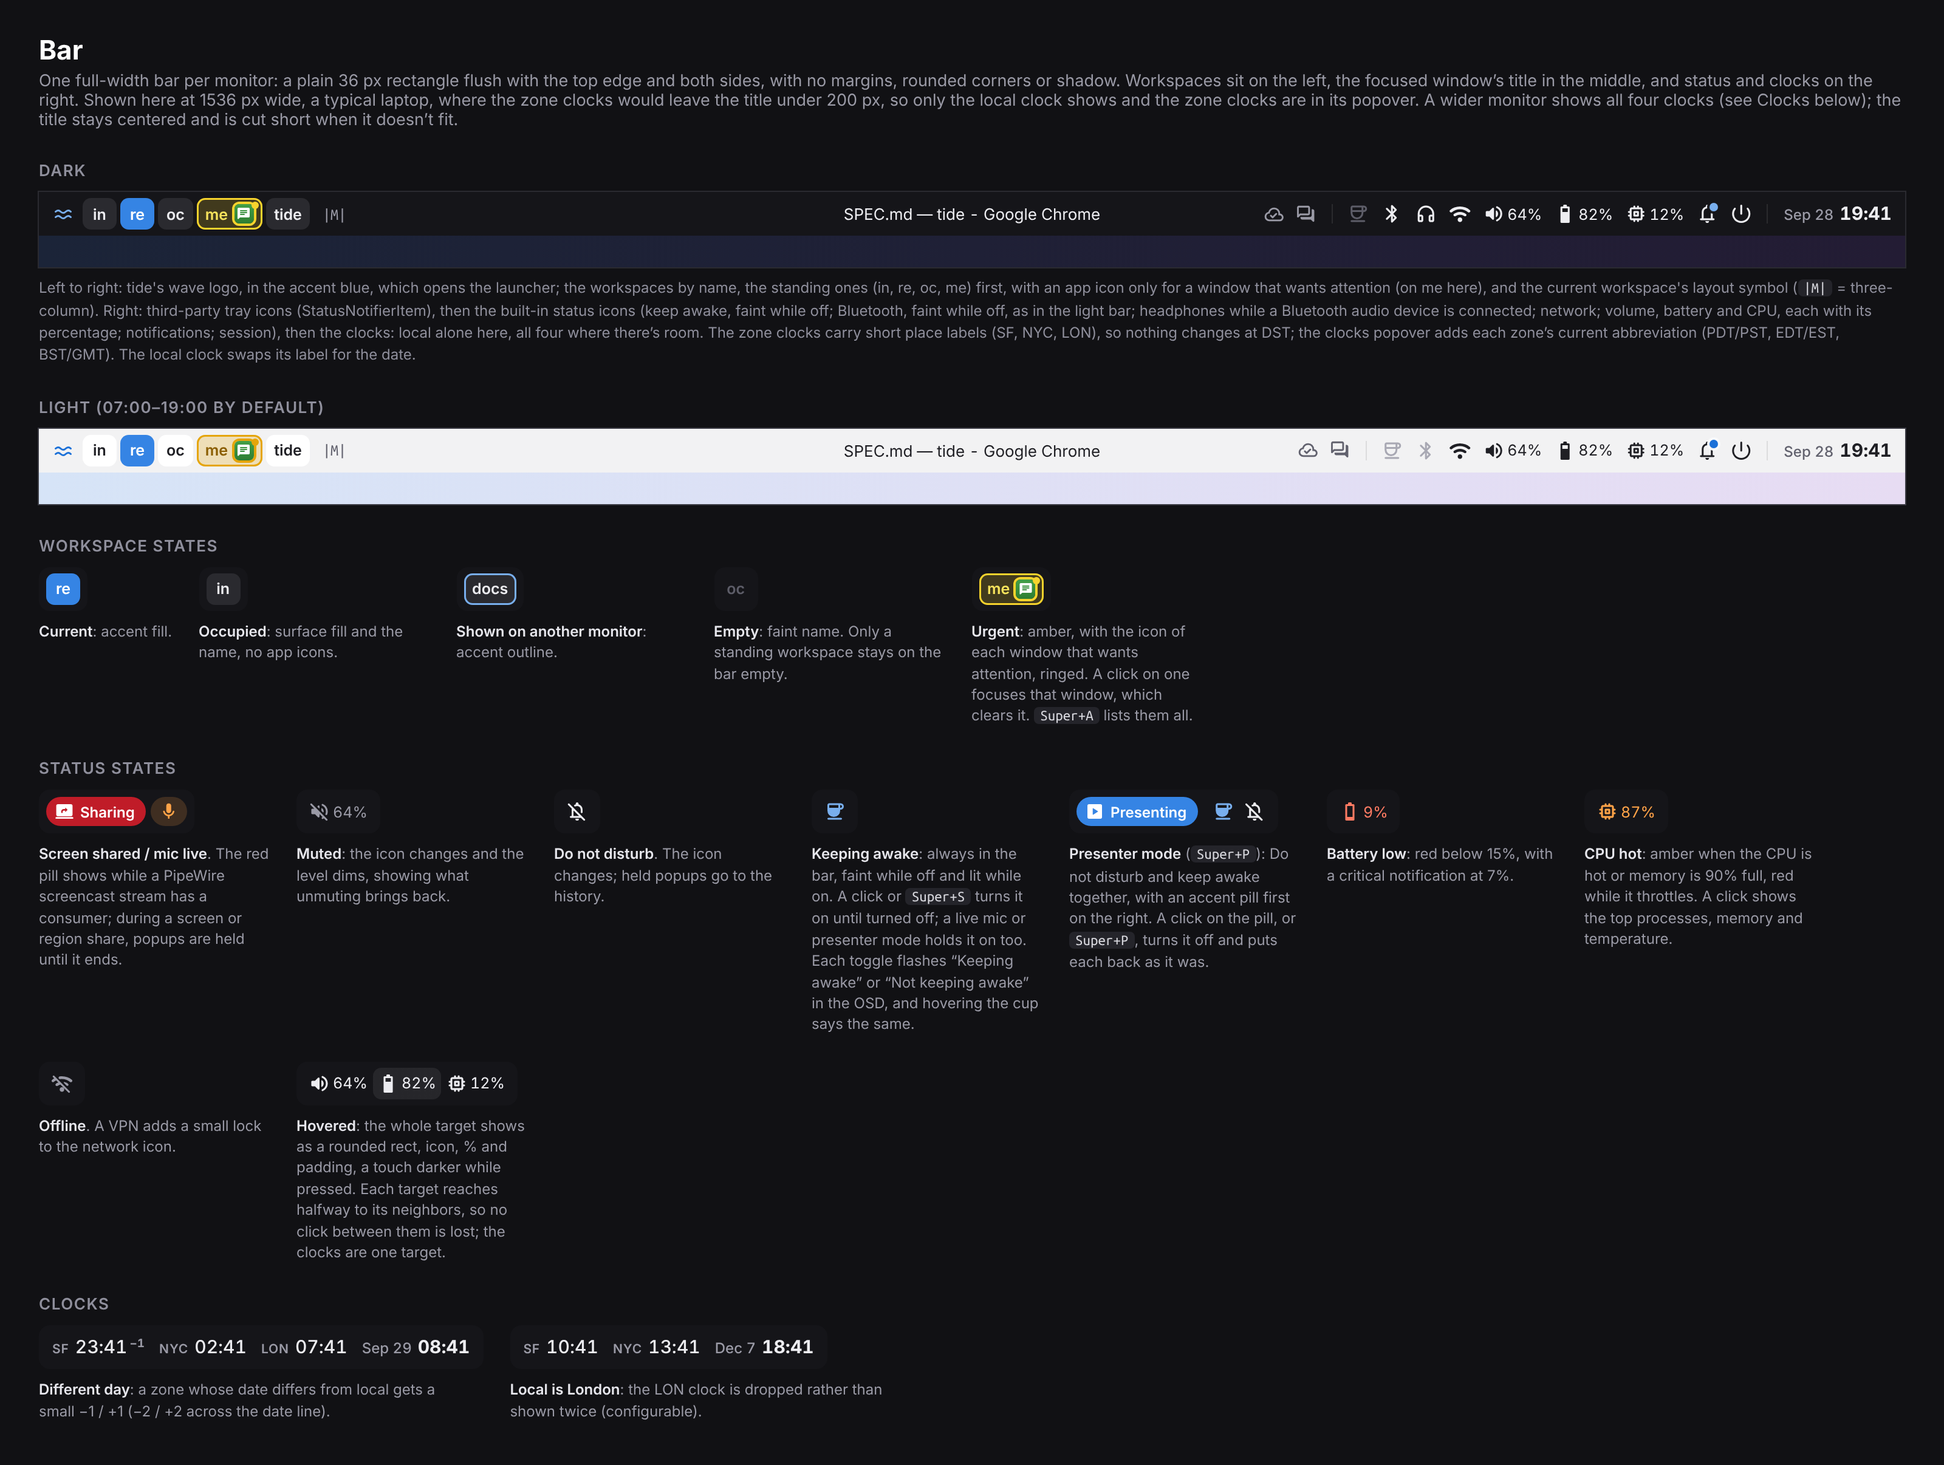
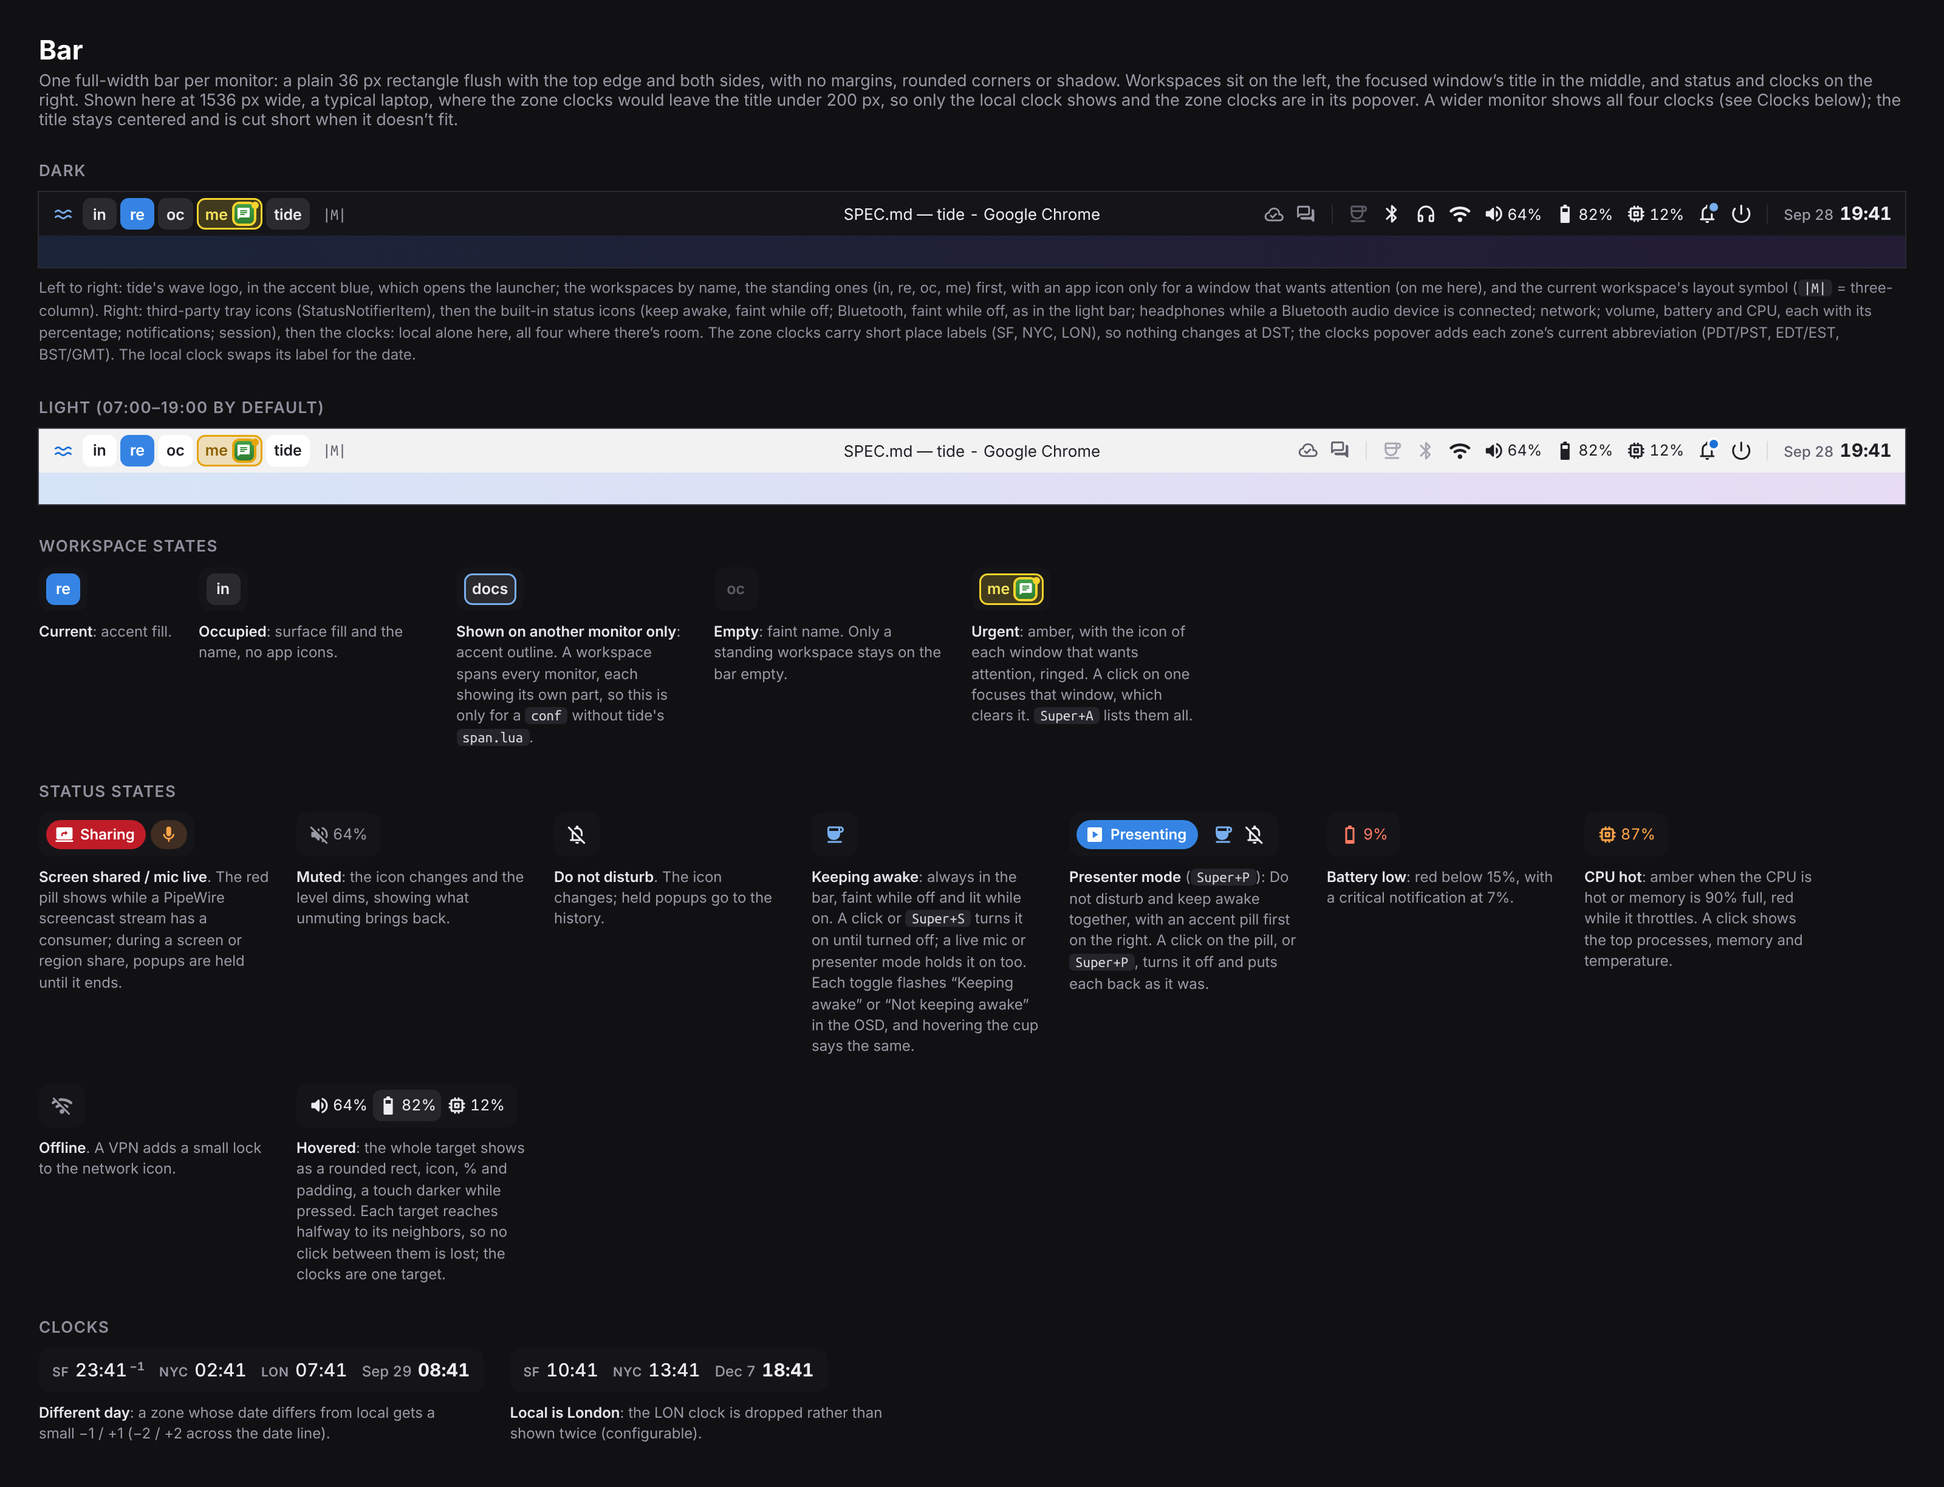
docs: Draw the name prompt and bring the mocks up to named workspaces
A new prompt.png shows the name prompt four ways: a new window on home,
moving a window, going to a workspace, and home refused. The switcher's
Workspaces tab lists the standing workspaces with home as `in`, the bar
says the other-monitor outline is only for a conf without span.lua, and
the desktop's terminal shows a named workspace's negative ID. SPEC.md's
mock table drops its notes that the bar was still numbered.

Claude-Session: https://claude.ai/code/session_01366dDsp2uip45WAYsSz6Up

diff --git a/docs/mocks/switcher.html b/docs/mocks/switcher.html
@@ -75,19 +75,19 @@
 <div class="stage theme-dark">
   <div class="switcher card">
     <div class="tabs"><span class="tab">Apps</span><span class="tab on">Workspaces</span><span class="tab">Windows</span><span class="tab">Attention</span><span class="tab">Actions</span></div>
-    <div class="search"><i class="ms">search</i><span class="ph">Go to a workspace</span><span class="scope">5 results</span></div>
+    <div class="search"><i class="ms">search</i><span class="ph">Go to a workspace</span><span class="scope">6 results</span></div>
     <div class="list">
-    <div class="res"><span class="appicon lg app-mail"><i class="ms">mail</i></span><div class="txt"><div class="nm">home</div><div class="sub">home · 2 windows</div></div></div>
-    <div class="res sel"><span class="appicon lg app-term"><i class="ms">terminal</i></span><div class="txt"><div class="nm">PR-12</div><div class="sub">current</div></div></div>
-    <div class="res"><span class="appicon lg app-chat"><i class="ms">chat</i></span><div class="txt"><div class="nm">in</div><div class="sub">1 window</div></div></div>
-    <div class="res"><span class="appicon lg app-web"><i class="ms">public</i></span><div class="txt"><div class="nm">docs</div><div class="sub">3 windows</div></div></div>
-    <div class="res"><span class="appicon lg app-action"><i class="ms">apps</i></span><div class="txt"><div class="nm">re</div><div class="sub">not made yet</div></div></div>
+    <div class="res"><span class="appicon lg app-mail"><i class="ms">mail</i></span><div class="txt"><div class="nm">in</div><div class="sub">home · 4 windows</div></div></div>
+    <div class="res"><span class="appicon lg app-web"><i class="ms">public</i></span><div class="txt"><div class="nm">re</div><div class="sub">2 windows</div></div></div>
+    <div class="res"><span class="appicon lg app-action"><i class="ms">apps</i></span><div class="txt"><div class="nm">oc</div><div class="sub">not made yet</div></div></div>
+    <div class="res"><span class="appicon lg app-action"><i class="ms">apps</i></span><div class="txt"><div class="nm">me</div><div class="sub">not made yet</div></div></div>
+    <div class="res sel"><span class="appicon lg app-term"><i class="ms">terminal</i></span><div class="txt"><div class="nm">PR-12</div><div class="sub">current · 3 windows</div></div></div>
+    <div class="res"><span class="appicon lg app-web"><i class="ms">public</i></span><div class="txt"><div class="nm">docs</div><div class="sub">1 window</div></div></div>
     </div>
-    <div class="pad"></div>
     <div class="foot"><span><kbd class="k">↑↓</kbd>select</span><span><kbd class="k">↵</kbd>go</span><span><kbd class="k">Tab</kbd>next tab</span><span><kbd class="k">Esc</kbd>close</span></div>
   </div>
 </div>
-<div class="cap" style="max-width:600px"><b>Workspaces</b> (tap <kbd>Super</kbd>): every workspace in the bar's order, home first, each with its first window's app and how many windows it has. A standing workspace is listed before it's made, and <kbd>↵</kbd> on it makes it.</div>
+<div class="cap" style="max-width:600px"><b>Workspaces</b> (tap <kbd>Super</kbd>): every workspace in the bar's order: the standing ones (in, re, oc, me), home first, then the rest in the order they were made, each with its first window's app and how many windows it has, counting every monitor's part. A standing workspace is listed before it's made, and <kbd>↵</kbd> on it makes it.</div>
 </div>
 </div>
 
@@ -101,9 +101,9 @@
     <div class="res sel"><span class="appicon lg app-term"><i class="ms">terminal</i></span><div class="txt"><div class="nm">make test — ~/src/tide</div><div class="sub">kitty · PR-12</div></div></div>
     <div class="res"><span class="appicon lg app-web"><i class="ms">public</i></span><div class="txt"><div class="nm">Pull request #12 · tide</div><div class="sub">Chrome · PR-12</div></div></div>
     <div class="res"><span class="appicon lg app-music"><i class="ms">music_note</i></span><div class="txt"><div class="nm">Focus playlist</div><div class="sub">Music · PR-12 · minimized</div></div></div>
-    <div class="res"><span class="appicon lg app-mail"><i class="ms">mail</i></span><div class="txt"><div class="nm">Inbox (3)</div><div class="sub">Mail · home</div></div></div>
+    <div class="res"><span class="appicon lg app-mail"><i class="ms">mail</i></span><div class="txt"><div class="nm">Inbox (3)</div><div class="sub">Mail · in</div></div></div>
     <div class="res"><span class="appicon lg app-chat"><i class="ms">chat</i></span><div class="txt"><div class="nm">Chat</div><div class="sub">Chat · in</div></div></div>
-    <div class="res"><span class="appicon lg app-cal"><i class="ms">calendar_month</i></span><div class="txt"><div class="nm">Calendar</div><div class="sub">Calendar · home · muted</div></div><i class="ms mute">notifications_off</i></div>
+    <div class="res"><span class="appicon lg app-cal"><i class="ms">calendar_month</i></span><div class="txt"><div class="nm">Calendar</div><div class="sub">Calendar · in · muted</div></div><i class="ms mute">notifications_off</i></div>
     </div>
     <div class="foot"><span><kbd class="k">↑↓</kbd>select</span><span><kbd class="k">↵</kbd>go</span><span><kbd class="k">Ctrl+M</kbd>mute</span><span><kbd class="k">Tab</kbd>next tab</span><span><kbd class="k">Esc</kbd>close</span></div>
   </div>
@@ -119,7 +119,7 @@
     <div class="list">
     <div class="res sel"><span class="appicon lg app-chat"><i class="ms">chat</i></span><div class="txt"><div class="nm">Chat</div><div class="sub">Chat · in</div></div></div>
     <div class="res"><span class="appicon lg app-term"><i class="ms">terminal</i></span><div class="txt"><div class="nm">build finished — ~/src/scripts</div><div class="sub">kitty · docs</div></div></div>
-    <div class="res"><span class="appicon lg app-mail"><i class="ms">mail</i></span><div class="txt"><div class="nm">Inbox (3)</div><div class="sub">Mail · home</div></div></div>
+    <div class="res"><span class="appicon lg app-mail"><i class="ms">mail</i></span><div class="txt"><div class="nm">Inbox (3)</div><div class="sub">Mail · in</div></div></div>
     </div>
     <div class="pad"></div><div class="pad"></div><div class="pad"></div>
     <div class="foot"><span><kbd class="k">↑↓</kbd>select</span><span><kbd class="k">↵</kbd>go</span><span><kbd class="k">Ctrl+M</kbd>mute</span><span><kbd class="k">Tab</kbd>next tab</span><span><kbd class="k">Esc</kbd>close</span></div>

diff --git a/docs/mocks/prompt.html b/docs/mocks/prompt.html
@@ -1,0 +1,95 @@
+<!doctype html>
+<html lang="en">
+<head>
+<meta charset="utf-8">
+<title>tide mock: name prompt</title>
+<link rel="stylesheet" href="common.css">
+<style>
+  .stage {
+    width: 560px;
+    height: 400px;
+    border-radius: 12px;
+    position: relative;
+    overflow: hidden;
+    background:
+      radial-gradient(400px 260px at 20% 25%, #123338, transparent 70%),
+      radial-gradient(500px 320px at 85% 80%, #2b1c3f, transparent 70%),
+      #16213a;
+    box-shadow: 0 0 0 1px #2a2a30;
+  }
+  .stage::before { content: ''; position: absolute; inset: 0; background: rgba(0,0,0,.35); }
+  /* As NamePrompt.qml draws it: 480 wide, 56 px from the top. */
+  .prompt { position: absolute; left: 40px; top: 56px; width: 480px; padding: 10px; display: flex; flex-direction: column; gap: 8px; border-radius: 12px; }
+  .head { font-size: 12px; font-weight: 600; color: var(--fg-dim); }
+  .field { height: 42px; border-radius: 10px; background: var(--surface-2); display: flex; align-items: center; padding: 0 12px; font-size: 16px; color: var(--fg); }
+  .field .sel { background: var(--accent-bg); color: #fff; }
+  .field .caret { width: 2px; height: 20px; background: var(--accent); margin-left: 1px; }
+  .field .ph { color: var(--fg-faint); }
+  .refusal { font-size: 12px; color: var(--urgent); }
+  .rowp { height: 36px; border-radius: 8px; display: flex; align-items: center; padding: 0 10px; font-size: 14px; color: var(--fg); }
+  .rowp.cur { background: var(--accent-bg); color: #fff; }
+  .hl { color: var(--accent); }
+  .rowp.cur .hl { color: #fff; }
+</style>
+</head>
+<body class="sheet" data-width="1240" data-scale="2">
+
+<h1>Name prompt</h1>
+<p class="lede">One prompt for naming a workspace (SPEC.md §6.5): a new window on home asks where it goes, a launch from home asks before it starts, <kbd>Super+Return</kbd> goes to a workspace and <kbd>Super+Shift+Return</kbd> moves the focused window to one. The first row is the typed name as a new workspace when none has it, then the workspaces that match, scored as the switcher scores. <b>Enter</b> takes the selected row, making the workspace if it's new; <b>Esc</b> closes a new window from home, cancels a launch, and otherwise leaves things as they were. A workspace spans every monitor, so a window moved there stays on its own monitor.</p>
+
+<div class="row">
+<div>
+<div class="stage theme-dark">
+  <div class="prompt card">
+    <div class="head">This window goes to the workspace named</div>
+    <div class="field"><span class="sel">PR-12</span><span class="caret"></span></div>
+    <div class="rowp cur">New workspace&nbsp;<b>PR-12</b></div>
+  </div>
+</div>
+<div class="cap" style="max-width:550px"><b>A new window on home.</b> The text starts as the window's short name, selected, so typing replaces it, and it follows the title until you type. Enter makes <b>PR-12</b> and the window goes there, focused; Esc closes the window, politely.</div>
+</div>
+
+<div>
+<div class="stage theme-dark">
+  <div class="prompt card">
+    <div class="head">Move this window to the workspace named</div>
+    <div class="field">do<span class="caret"></span></div>
+    <div class="rowp cur">New workspace&nbsp;<b>do</b></div>
+    <div class="rowp"><span class="hl">do</span>cs</div>
+    <div class="rowp"><span class="hl">d</span>esign&nbsp;<span class="hl">o</span>ps</div>
+  </div>
+</div>
+<div class="cap" style="max-width:550px"><b>Moving a window</b> (<kbd>Super+Shift+Return</kbd>). Typing filters the workspaces, its matched letters in the accent; <kbd>↓</kbd> picks <b>docs</b>. A name typed in any case uses the workspace that has it, so <b>RE</b> is the standing <b>re</b>.</div>
+</div>
+</div>
+
+<div class="row" style="margin-top:22px">
+<div>
+<div class="stage theme-dark">
+  <div class="prompt card">
+    <div class="head">Go to the workspace named</div>
+    <div class="field"><span class="caret" style="margin-left:0"></span><span class="ph">&nbsp;Name a workspace</span></div>
+    <div class="rowp cur">in</div>
+    <div class="rowp">re</div>
+    <div class="rowp">oc</div>
+    <div class="rowp">me</div>
+    <div class="rowp">PR-12</div>
+  </div>
+</div>
+<div class="cap" style="max-width:550px"><b>Going to a workspace</b> (<kbd>Super+Return</kbd>). With nothing typed, every workspace in the bar's order, home included, since nothing moves there. A new name goes to a new, empty workspace, which goes again once you leave it empty.</div>
+</div>
+
+<div>
+<div class="stage theme-dark">
+  <div class="prompt card">
+    <div class="head">This window goes to the workspace named</div>
+    <div class="field">in<span class="caret"></span></div>
+    <div class="refusal">in is home, which holds only its own apps</div>
+  </div>
+</div>
+<div class="cap" style="max-width:550px"><b>Home refused.</b> A window that isn't one of home's apps can't go home, so the prompt offers no row and says why. A name can't hold quotes, backslashes, <code>@</code> or control characters, which can't be typed.</div>
+</div>
+</div>
+
+</body>
+</html>

diff --git a/docs/mocks/bar.html b/docs/mocks/bar.html
@@ -100,7 +100,7 @@
 <div class="chips theme-dark">
   <div class="chip"><div class="bar"><div class="ws active"><span class="n">re</span></div></div><div class="cap"><b>Current</b>: accent fill.</div></div>
   <div class="chip"><div class="bar"><div class="ws occupied"><span class="n">in</span></div></div><div class="cap"><b>Occupied</b>: surface fill and the name, no app icons.</div></div>
-  <div class="chip"><div class="bar"><div class="ws visible"><span class="n">docs</span></div></div><div class="cap"><b>Shown on another monitor</b>: accent outline.</div></div>
+  <div class="chip"><div class="bar"><div class="ws visible"><span class="n">docs</span></div></div><div class="cap"><b>Shown on another monitor only</b>: accent outline. A workspace spans every monitor, each showing its own part, so this is only for a <code>conf</code> without tide's <code>span.lua</code>.</div></div>
   <div class="chip"><div class="bar"><div class="ws empty"><span class="n">oc</span></div></div><div class="cap"><b>Empty</b>: faint name. Only a standing workspace stays on the bar empty.</div></div>
   <div class="chip"><div class="bar"><div class="ws urgent"><span class="n">me</span><span class="apps"><span class="appicon app-chat flag"><i class="ms">chat</i></span></span></div></div><div class="cap"><b>Urgent</b>: amber, with the icon of each window that wants attention, ringed. A click on one focuses that window, which clears it. <kbd>Super+A</kbd> lists them all.</div></div>
 </div>

diff --git a/docs/mocks/desktop.html b/docs/mocks/desktop.html
@@ -58,7 +58,7 @@
       <div>On branch main</div>
       <div>nothing to commit, working tree clean</div>
       <div><span class="h">~/src/tide</span> <span class="m">(main)</span> <span class="p">$</span> hyprctl activeworkspace</div>
-      <div>workspace ID 2 (re) on monitor DP-1:</div>
+      <div>workspace ID -1340 (re) on monitor DP-1:</div>
       <div class="m">&nbsp;&nbsp;monitorID: 0</div>
       <div class="m">&nbsp;&nbsp;windows: 4</div>
       <div class="m">&nbsp;&nbsp;hasfullscreen: 0</div>

diff --git a/SPEC.md b/SPEC.md
@@ -117,10 +117,11 @@ mock's half-pixel size is rounded up: 12.5px is 13.
 
 | | |
 |---|---|
-| **Desktop**: 3440×1440, three-column layout, focused master in the middle, the rest dimmed. Workspace 4 is urgent; the bar is still numbered (TODO.md). [`desktop.png`](docs/mocks/desktop.png) | ![desktop](docs/mocks/desktop.png) |
-| **Bar**: dark and light, every workspace and status state, the clock rules. Its workspaces are still numbered, and are to be redrawn by name (TODO.md). [`bar.png`](docs/mocks/bar.png) | ![bar](docs/mocks/bar.png) |
+| **Desktop**: 3440×1440, three-column layout, focused master in the middle, the rest dimmed. The bar shows the workspaces by name, and `me` is urgent. [`desktop.png`](docs/mocks/desktop.png) | ![desktop](docs/mocks/desktop.png) |
+| **Bar**: dark and light, every workspace and status state, the clock rules. [`bar.png`](docs/mocks/bar.png) | ![bar](docs/mocks/bar.png) |
 | **Layouts**: tile, three-column, two columns + stack, monocle, the single-window rule, and how three-column fills up. [`layouts.png`](docs/mocks/layouts.png) | ![layouts](docs/mocks/layouts.png) |
 | **Switcher**: its five tabs, Apps (the launcher), Workspaces, Windows, Attention and Actions. [`switcher.png`](docs/mocks/switcher.png) | ![switcher](docs/mocks/switcher.png) |
+| **Name prompt**: a new window on home, moving a window, going to a workspace, and home refused (§6.5). [`prompt.png`](docs/mocks/prompt.png) | ![name prompt](docs/mocks/prompt.png) |
 | **Notifications**: popups, OSD, the notification center while sharing. [`notifications.png`](docs/mocks/notifications.png) | ![notifications](docs/mocks/notifications.png) |
 | **Clocks popover**: zones, working-hours strips, DST warning, calendar. [`clocks.png`](docs/mocks/clocks.png) | ![clocks](docs/mocks/clocks.png) |
 | **Settings**: the sidebar grouped under Hardware, Windows and General, Keyboard with its shortcuts, and the newer pages: Start at login, Notifications, Clipboard, Power and Workspaces. [`settings.png`](docs/mocks/settings.png) | ![settings](docs/mocks/settings.png) |

diff --git a/TODO.md b/TODO.md
@@ -1749,10 +1749,6 @@ or workspace goes there.
 - **The tap of `Super`** opens the switcher on Workspaces (its `tide:launcher`
   global shortcut does), once the pinned Hyprland passes SPEC.md §8.2's
   three tap checks; until then `conf` binds no tap.
-- **Redo the mocks.** `bar.png` and `desktop.png` show numbered
-  workspaces. Redraw the bar's workspaces by name with the standing ones,
-  home first, and the name prompt, then `make mocks`. `switcher.png` has
-  the switcher's five tabs.
 - **Browser tabs (M9).** tileco on Linux lists tabs with `chrome.tabs`,
   and `tide-tabs` hands them to the shell (SPEC.md §8.3).
   - [x] An open native-messaging port keeps a Manifest V3 service worker
